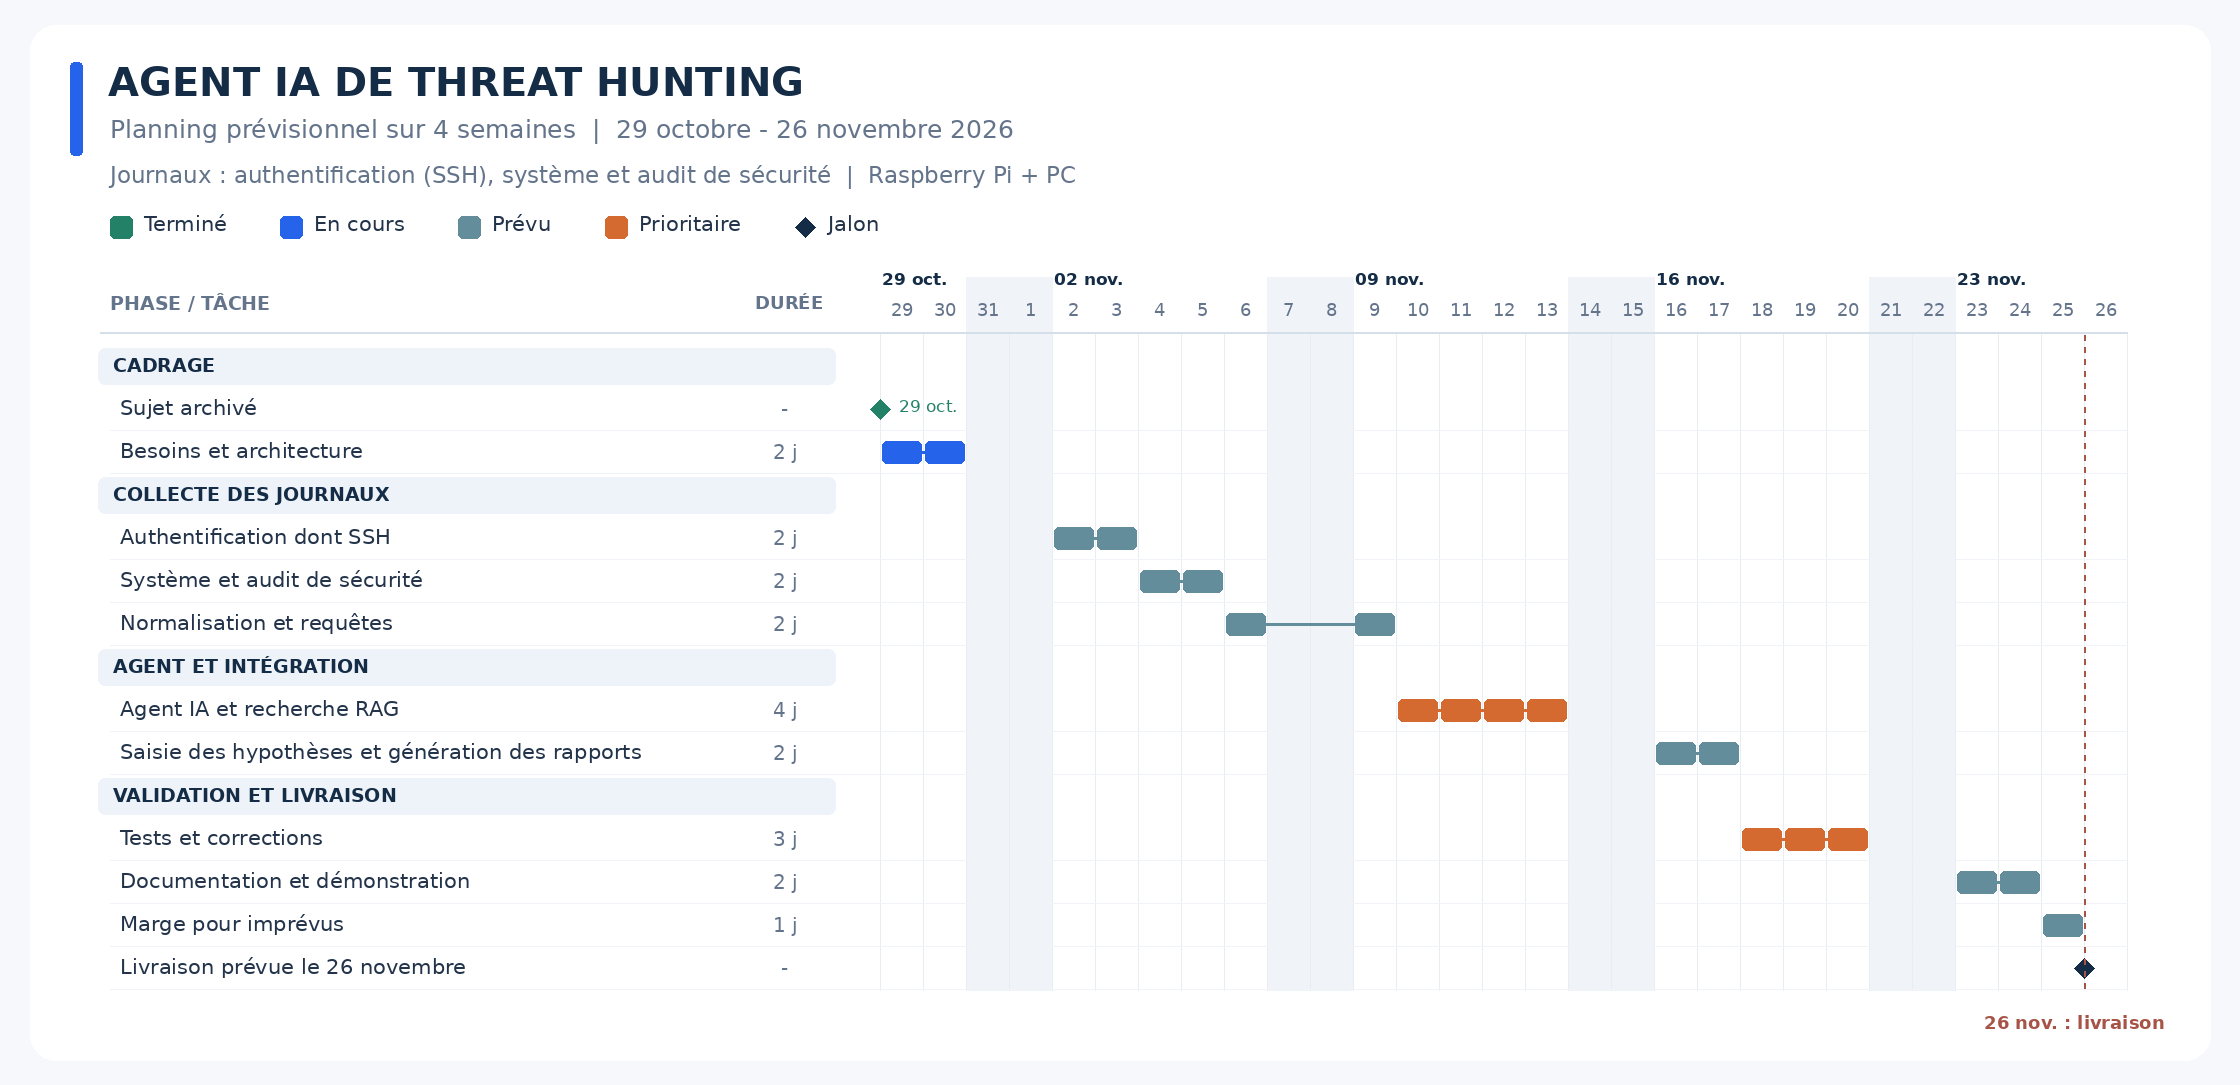
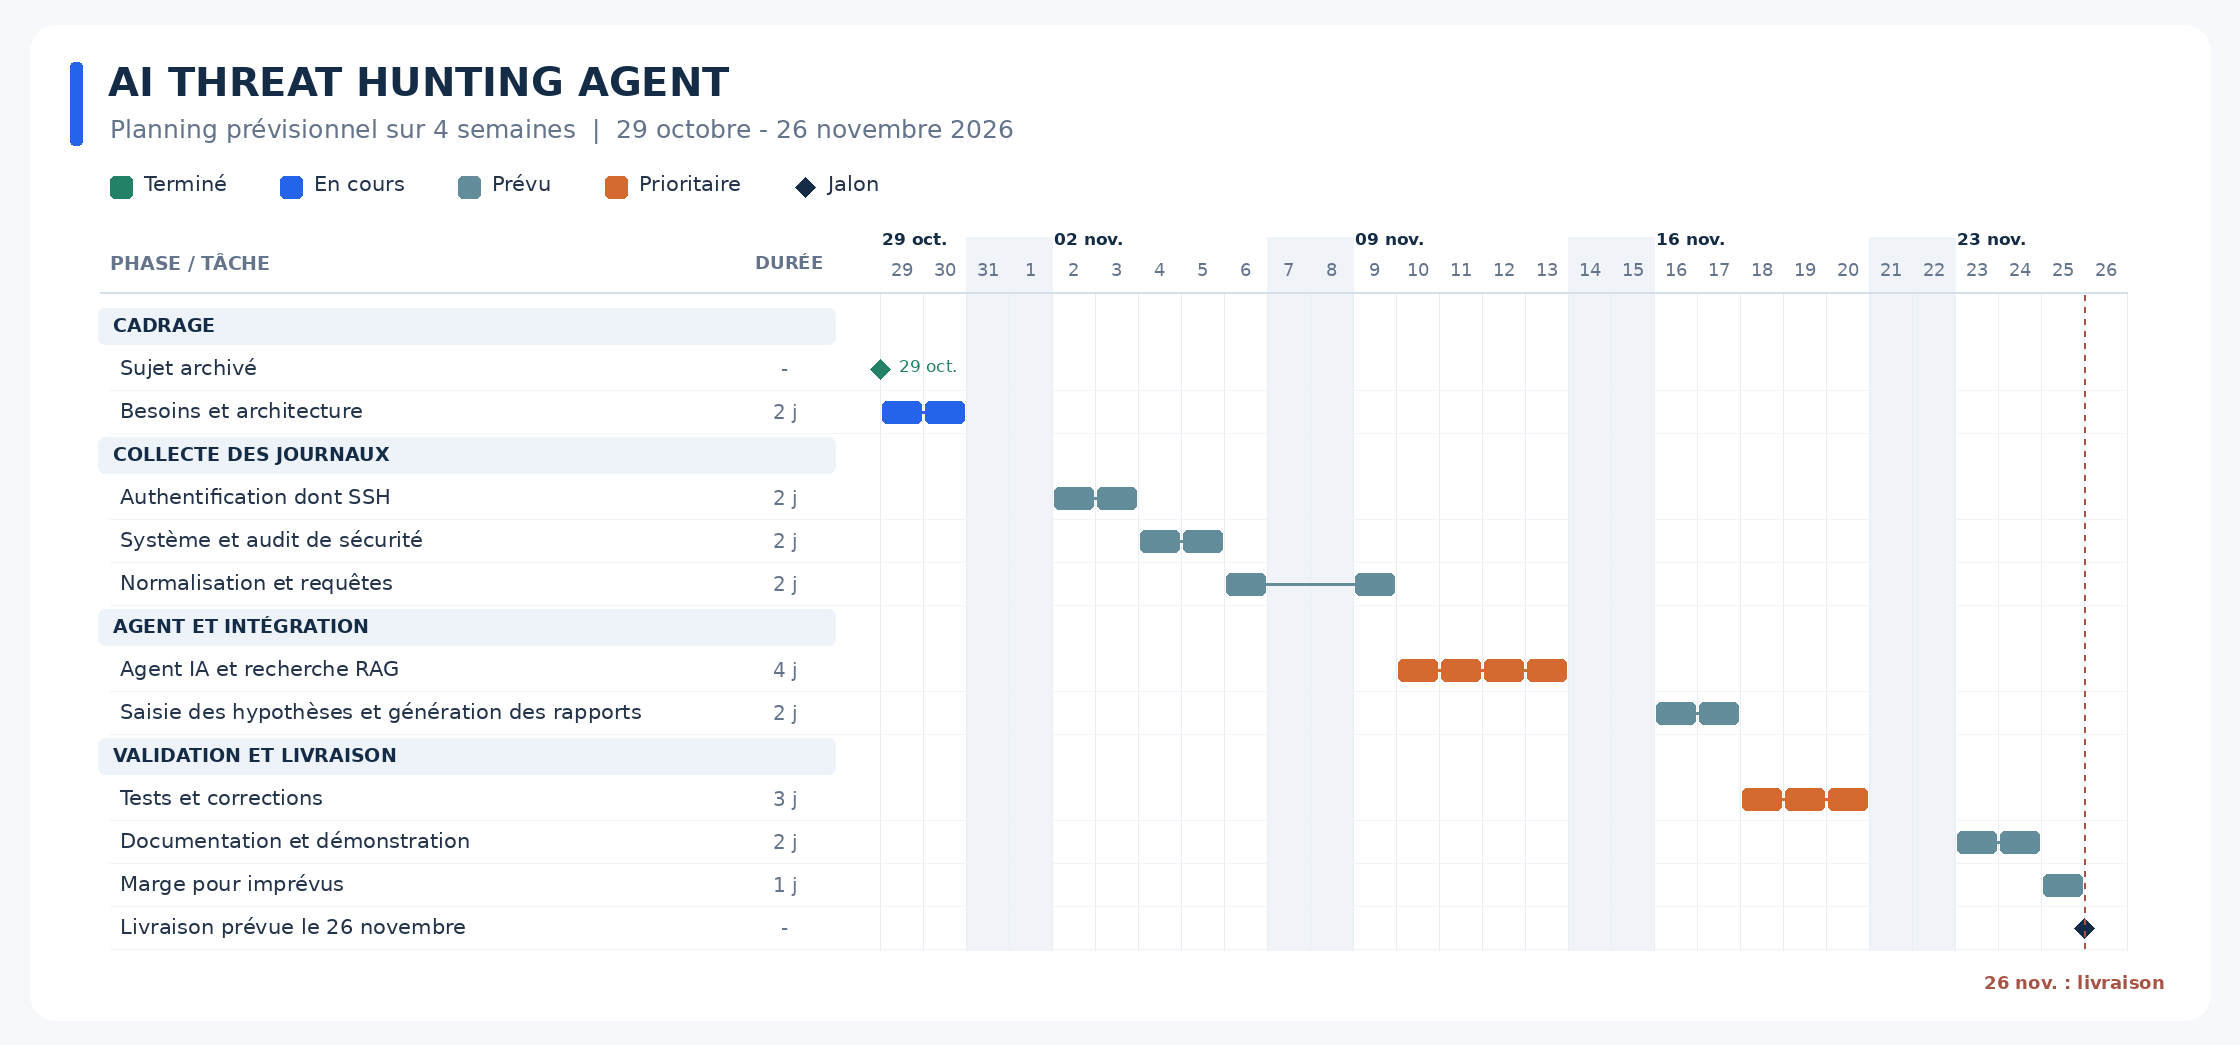
docs: README

diff --git a/README.md b/README.md
@@ -1,10 +1,16 @@
-# Agent IA de recherche de menaces
+# AI Threat Hunting Agent
 
-## Mon idée
+## Présentation du projet
 
-Mon idée est de mettre en place un serveur local sur un Raspberry Pi et d'utiliser une intelligence artificielle pour analyser ses journaux d'événements (logs). À partir de ces logs, l'agent IA aidera à repérer des activités suspectes, à enquêter sur de possibles menaces et à expliquer ses observations en s'appuyant sur des preuves.
+Ce projet vise à développer un agent d’intelligence artificielle pour la recherche de menaces dans un environnement local composé d’un Raspberry Pi et d’un PC. L’agent exploite les journaux d’authentification, système et d’audit de sécurité afin de préparer des investigations, rechercher des activités suspectes et produire des conclusions justifiées par des preuves. Le Raspberry Pi héberge les services surveillés ; le PC héberge l’agent IA et le stockage des journaux.
 
-**État du projet :** en phase de conception. Le serveur et l'agent IA décrits ici sont prévus ; leur mise en œuvre reste à réaliser.
+## Planification
+
+Le planning prévisionnel s'étend du **29 octobre au 26 novembre 2026**, du cadrage à la livraison du projet.
+
+![Diagramme de Gantt du projet](docs/project-gantt.png)
+
+Les étapes, les dépendances et les hypothèses sont détaillées dans le [document de planification](docs/project-gantt.md).
 
 ## Sujet officiel
 
@@ -27,11 +33,3 @@ Une investigation commence par une hypothèse, par exemple :
 L'agent transforme cette hypothèse en plan d'investigation : il détermine quels logs pourraient la confirmer ou la contredire, génère les requêtes nécessaires, interprète les résultats et rassemble les preuves. Il explique ensuite ses conclusions, précise les incertitudes et relie les observations aux tactiques et techniques de MITRE ATT&CK. Une hypothèse reste une question à examiner, et non une conclusion à démontrer à tout prix.
 
 Des échecs de connexion répétés peuvent avoir des explications légitimes. Une connexion réussie après plusieurs échecs ne suffit pas, à elle seule, à prouver qu'un compte a été compromis.
-
-## Planification
-
-Le planning prévisionnel s'étend du **29 octobre au 26 novembre 2026**, du cadrage à la livraison du projet.
-
-![Diagramme de Gantt du projet](docs/project-gantt.png)
-
-Les étapes, les dépendances et les hypothèses sont détaillées dans le [document de planification](docs/project-gantt.md).
